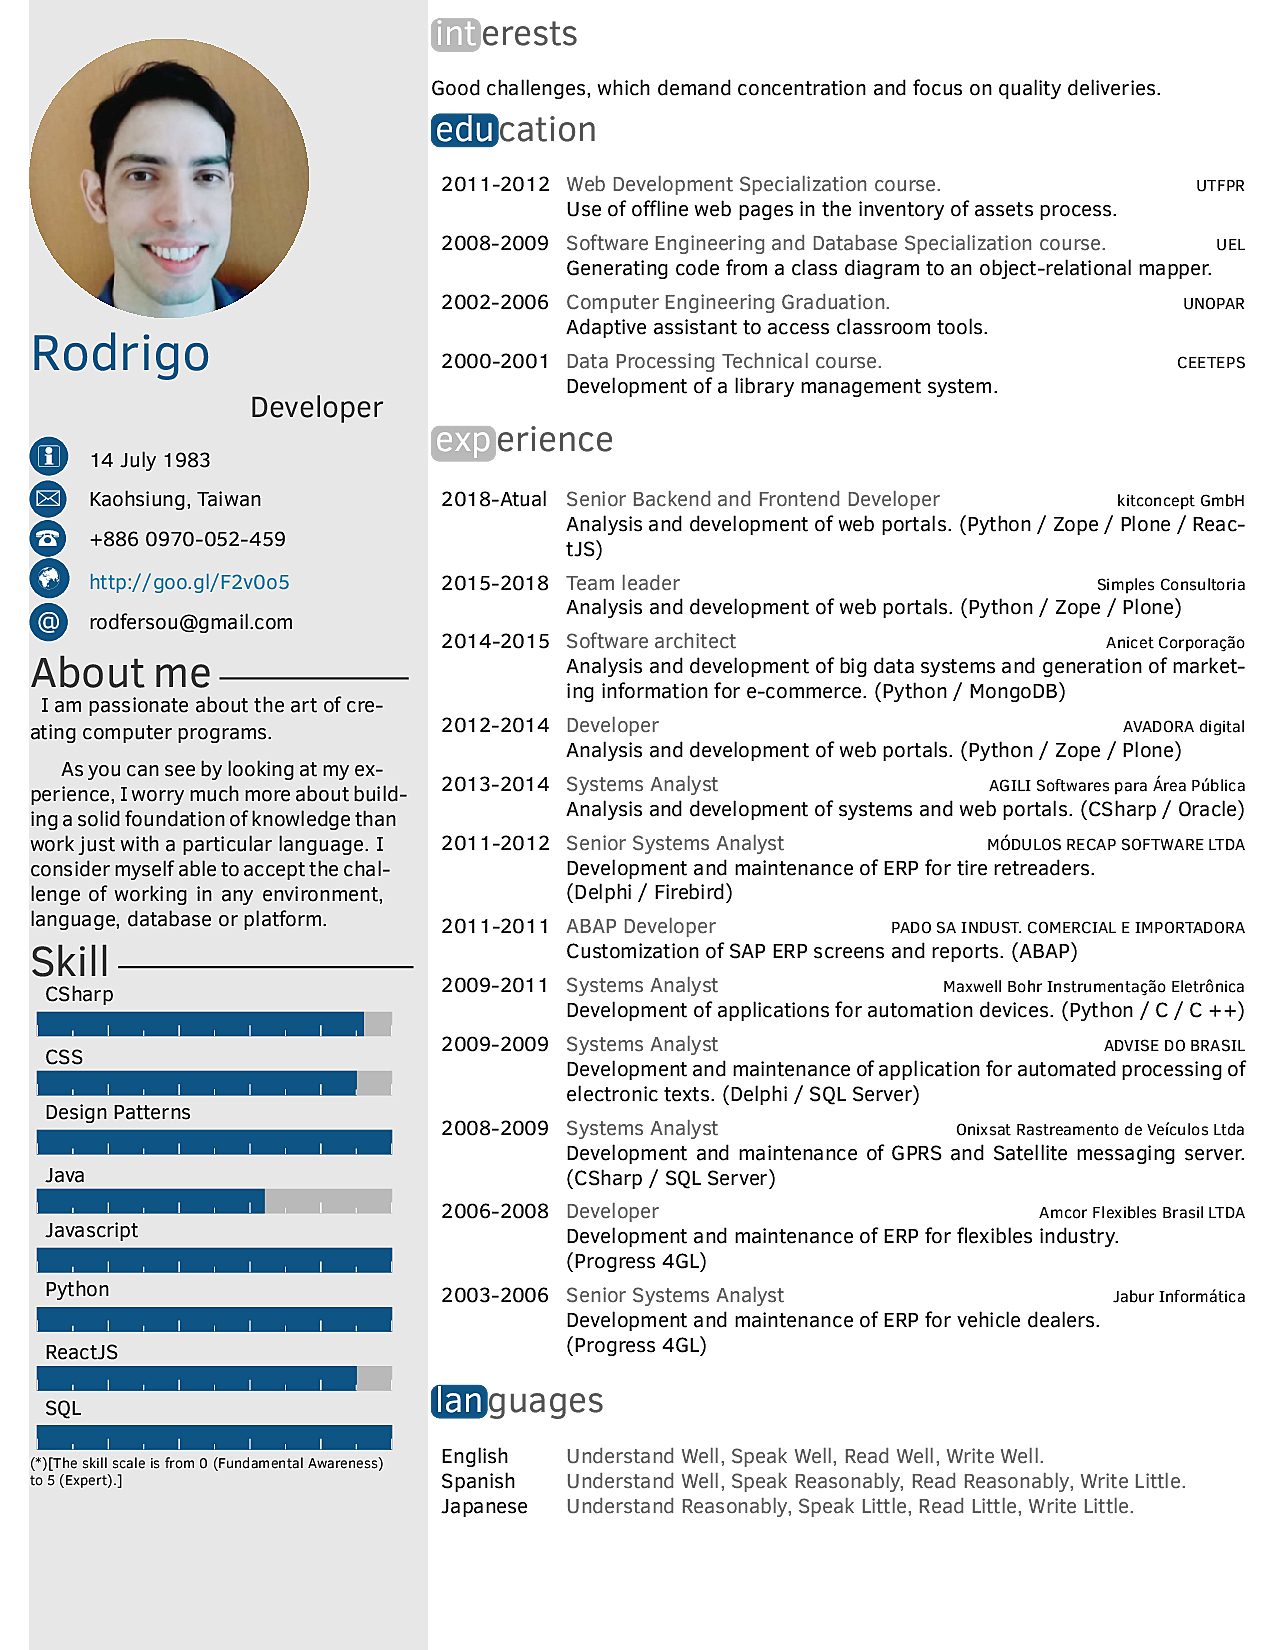
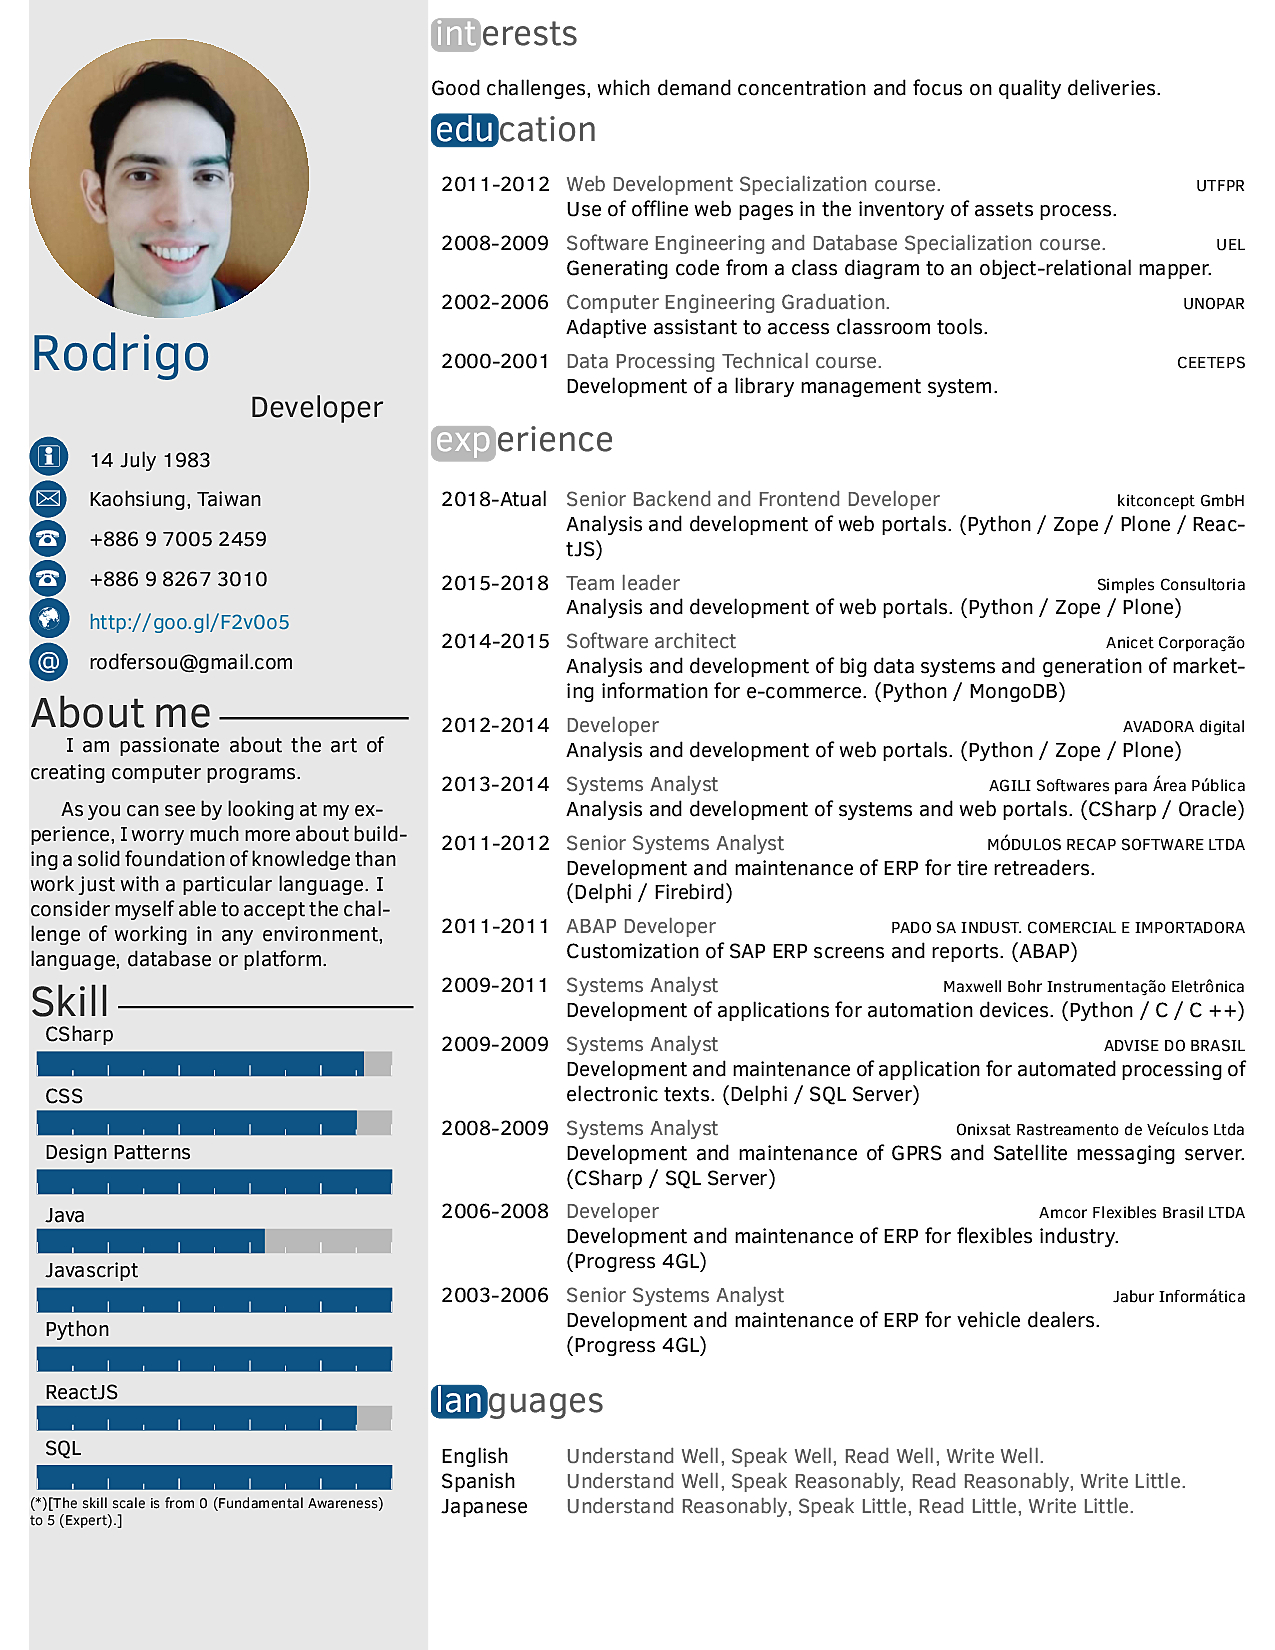
Fix indentation

Changed region(s): [[0.0, 0.3091, 0.3059, 0.9273]]

diff --git a/Curriculum_Vitae.tex b/Curriculum_Vitae.tex
@@ -16,7 +16,8 @@
 \cvjobtitle{Desenvolvedor}%your actual job position
 \cvdate{14 Julho 1983}%date of birth
 \cvaddress{Kaohsiung, Taiwan}%address
-\cvnumberphone{+886 0970-052-459}%telphone number
+\cvnumberphone{+886 9 7005 2459}%telphone number
+\cvcontactphone{+886 9 8267 3010}%contact number
 \cvmail{rodfersou@gmail.com}%e-mail
 \cvsite{http://goo.gl/F2v0o5}%personal site
 

diff --git a/Curriculum_Vitae_en.tex b/Curriculum_Vitae_en.tex
@@ -16,7 +16,8 @@
 \cvjobtitle{Developer}%your actual job position
 \cvdate{14 July 1983}%date of birth
 \cvaddress{Kaohsiung, Taiwan}%address
-\cvnumberphone{+886 0970-052-459}%telphone number
+\cvnumberphone{+886 9 7005 2459}%telphone number
+\cvcontactphone{+886 9 8267 3010}%contact number
 \cvmail{rodfersou@gmail.com}%e-mail
 \cvsite{http://goo.gl/F2v0o5}%personal site
 
